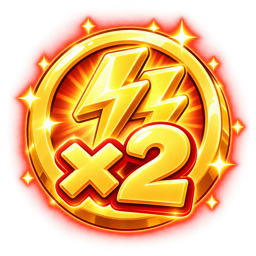
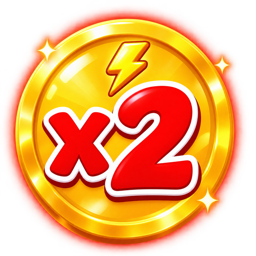
Jatek frissitve - 2026-11-02 09:08

diff --git a/play.html b/play.html
@@ -637,9 +637,9 @@ button.pskip.pmore:active{transform:scale(.98)}
 .srow .st.boost{display:flex;align-items:center;gap:5px;padding:3px 10px;border-radius:999px;
   background:color-mix(in srgb,var(--gold) 20%,var(--surface));border:1px solid var(--gold);color:var(--gold)}
 /* Szorzo kepe (boost-15 / boost-2), ha mar elkeszult; addig a felirat latszik. */
-img.bic{width:24px;height:24px;object-fit:contain;flex:none}img.bic.big{width:44px;height:44px;display:block;margin:0 auto 4px}
+img.bic{width:34px;height:34px;object-fit:contain;flex:none}img.bic.big{width:44px;height:44px;display:block;margin:0 auto 4px}
 .srow .st.boost b{font-size:15px;font-weight:800}
-.srow .st.boost i{font-style:normal;font-size:10px;font-weight:700;opacity:.85}
+.srow .st.boost i{font-style:normal;font-size:12px;font-weight:700;opacity:.85}
 .boostwon{margin:8px auto 0;max-width:280px;padding:9px 14px;border-radius:12px;font-size:14px;font-weight:700;
   background:color-mix(in srgb,var(--gold) 18%,var(--surface));border:1.5px solid var(--gold);color:var(--gold)}
 .boostwon b{font-size:19px;font-weight:800;margin-right:4px}

diff --git a/index.html b/index.html
@@ -1,7 +1,7 @@
 <!doctype html><html lang="hu"><head><meta charset="utf-8">
 <meta name="viewport" content="width=device-width,initial-scale=1">
 <meta name="robots" content="noindex,nofollow,noarchive">
-<meta http-equiv="refresh" content="0; url=play.html?v=202611012015">
+<meta http-equiv="refresh" content="0; url=play.html?v=202611020908">
 <title>Bibliaút</title></head>
-<body><p>Betöltés… <a href="play.html?v=202611012015">Bibliaút megnyitása</a></p>
-<script>location.replace('play.html?v=202611012015');</script></body></html>
+<body><p>Betöltés… <a href="play.html?v=202611020908">Bibliaút megnyitása</a></p>
+<script>location.replace('play.html?v=202611020908');</script></body></html>
